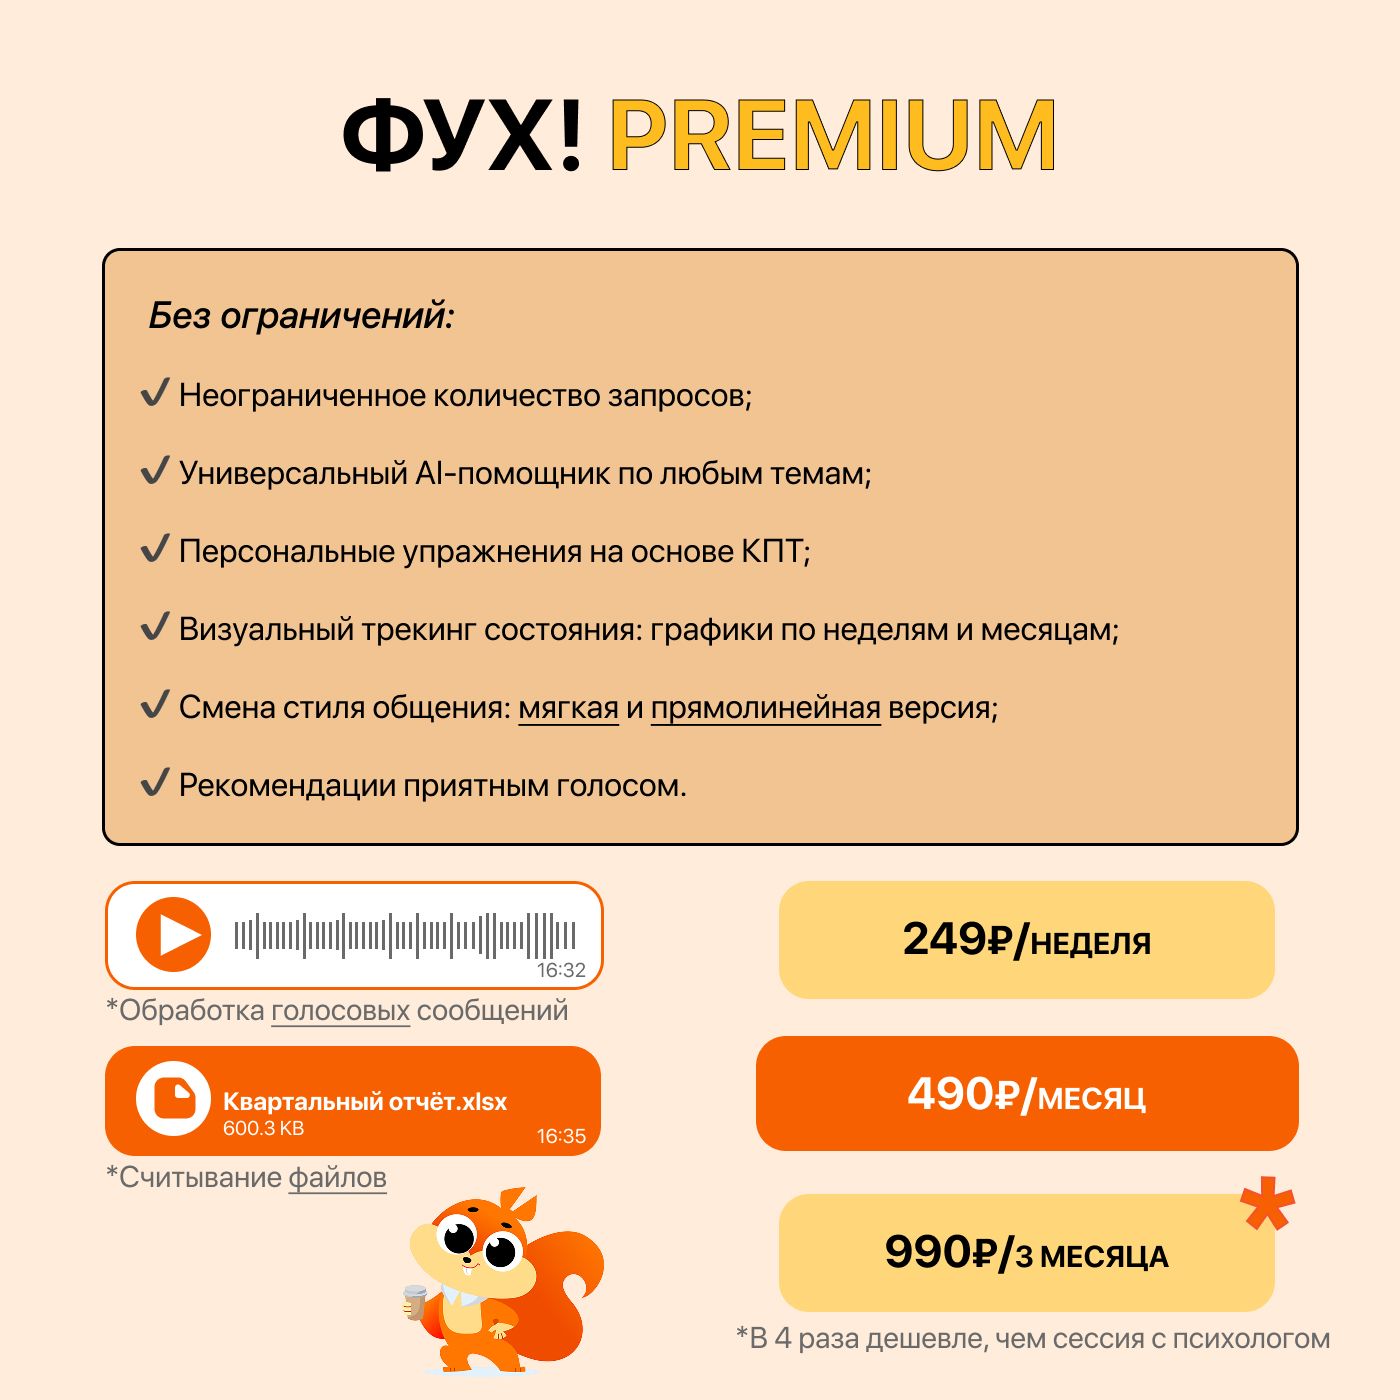
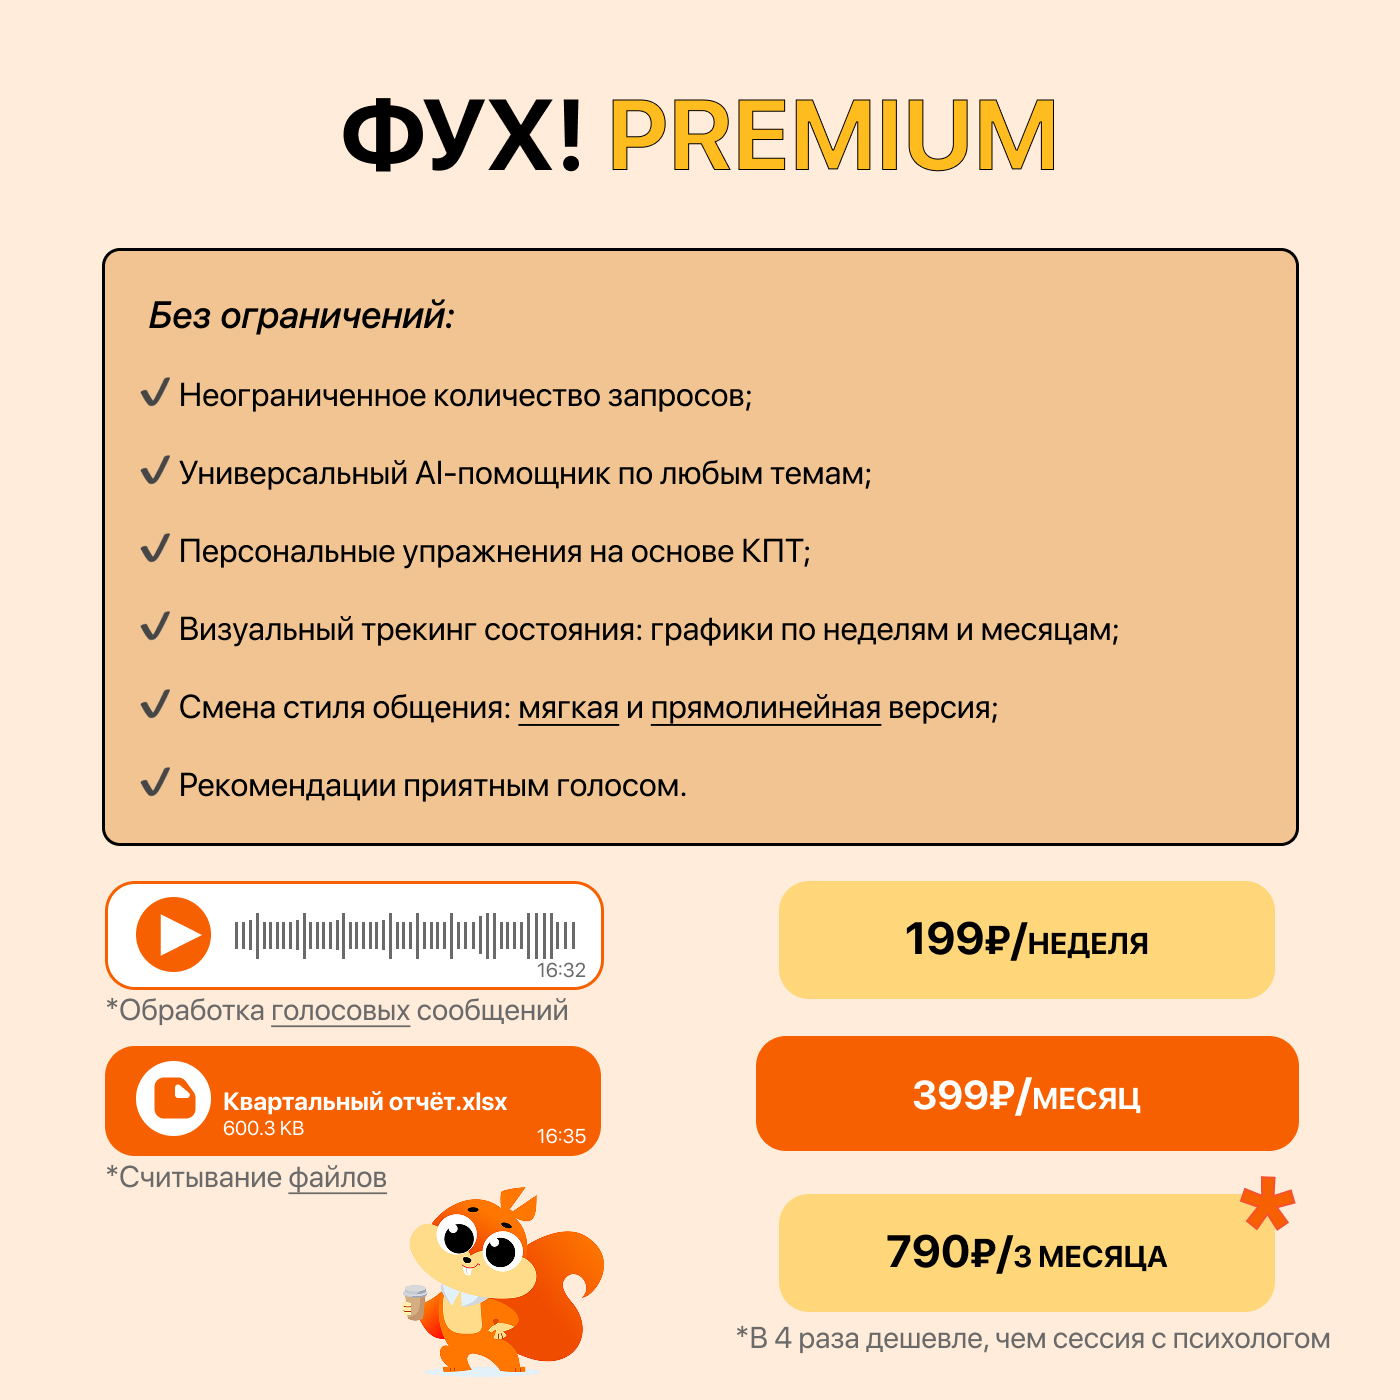
New prices

Changed region(s): [[0.645, 0.645, 0.8293, 0.7064], [0.6143, 0.86, 0.8293, 0.9214], [0.645, 0.7679, 0.8293, 0.7986]]

diff --git a/settings.py b/settings.py
@@ -4,9 +4,9 @@ DEFAULT_TIMEZONE = timedelta(hours=3) # Moscow (GMT +3)
 
 
 SUBSCRIPTION_PLANS = {
-    7: 249,
-    30: 490,
-    90: 990
+    7: 199,
+    30: 399,
+    90: 790
 }
 
 LIMITS = {
